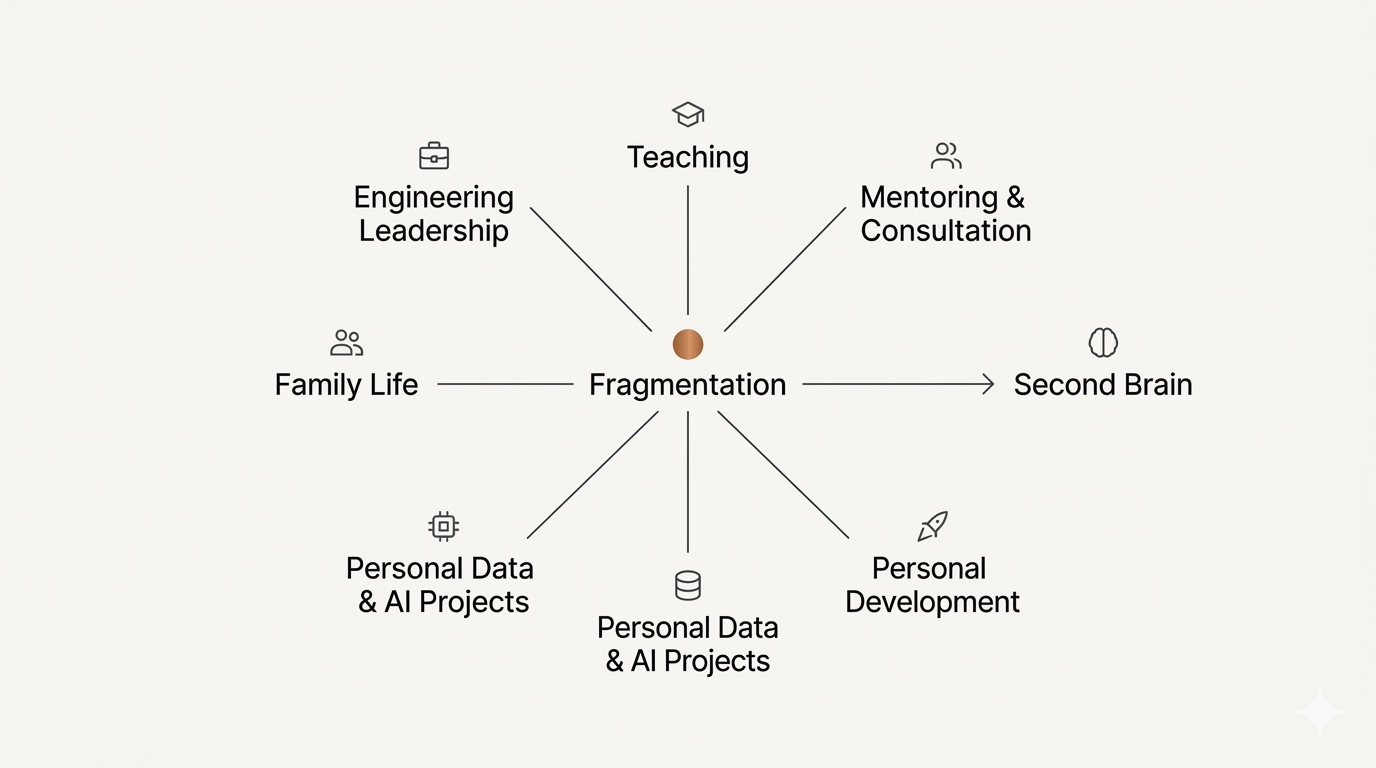
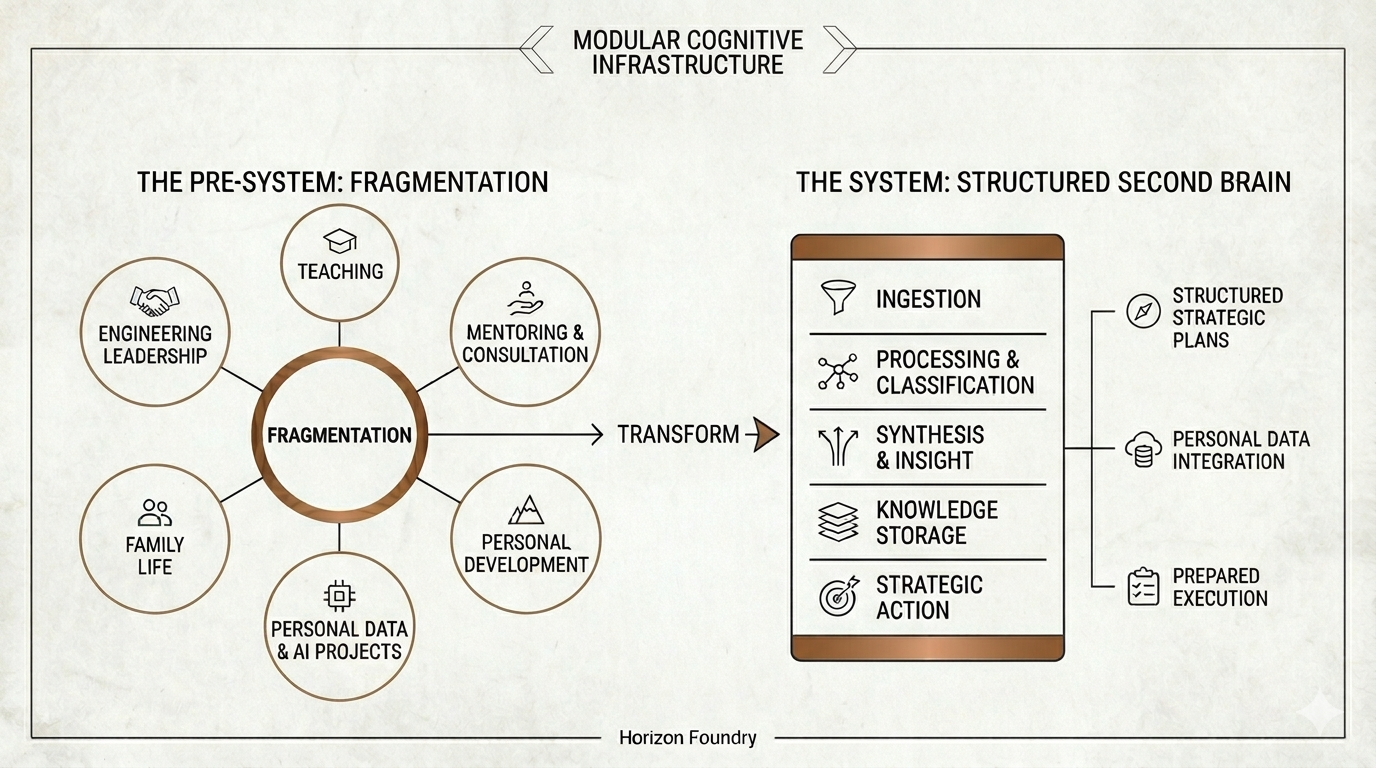
fix: update fragmentation visual and wire CTA to front matter URL
Replace fragmentation-map.png with updated version. Fix homepage
template to read secondary CTA URL from front matter instead of
auto-computing from latest essay.

diff --git a/layouts/index.html b/layouts/index.html
@@ -1,11 +1,5 @@
 {{ define "main" }}
 
-  {{ $writingPages := sort (where .Site.RegularPages "Section" "essays") "Date" "desc" }}
-  {{ $latestWritingURL := "/essays/" }}
-  {{ if gt (len $writingPages) 0 }}
-    {{ $latestWritingURL = (index $writingPages 0).RelPermalink }}
-  {{ end }}
-
   <!-- =====================================================
        HERO SECTION
        Purpose:
@@ -37,7 +31,7 @@
           {{ .Params.hero.primary_cta.label }}
         </a>
 
-        <a href="{{ $latestWritingURL }}" class="btn secondary">
+        <a href="{{ .Params.hero.secondary_cta.url }}" class="btn secondary">
           {{ .Params.hero.secondary_cta.label }}
         </a>
       </div>
